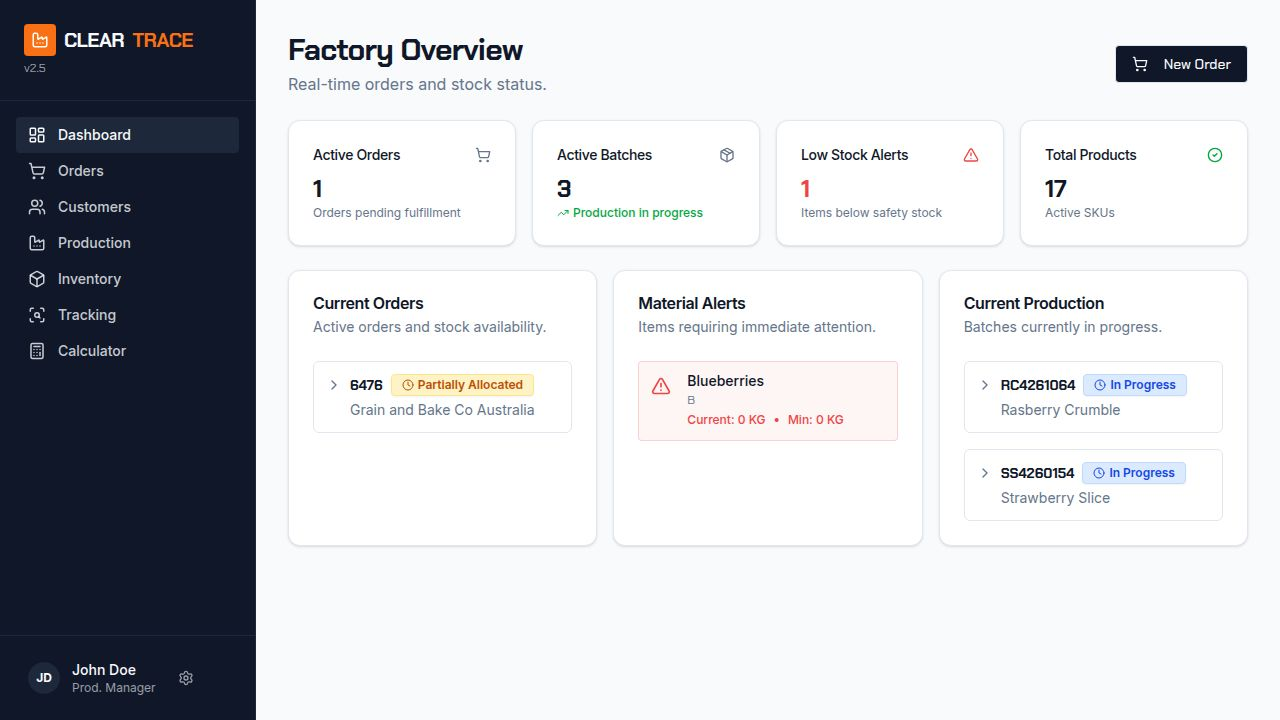
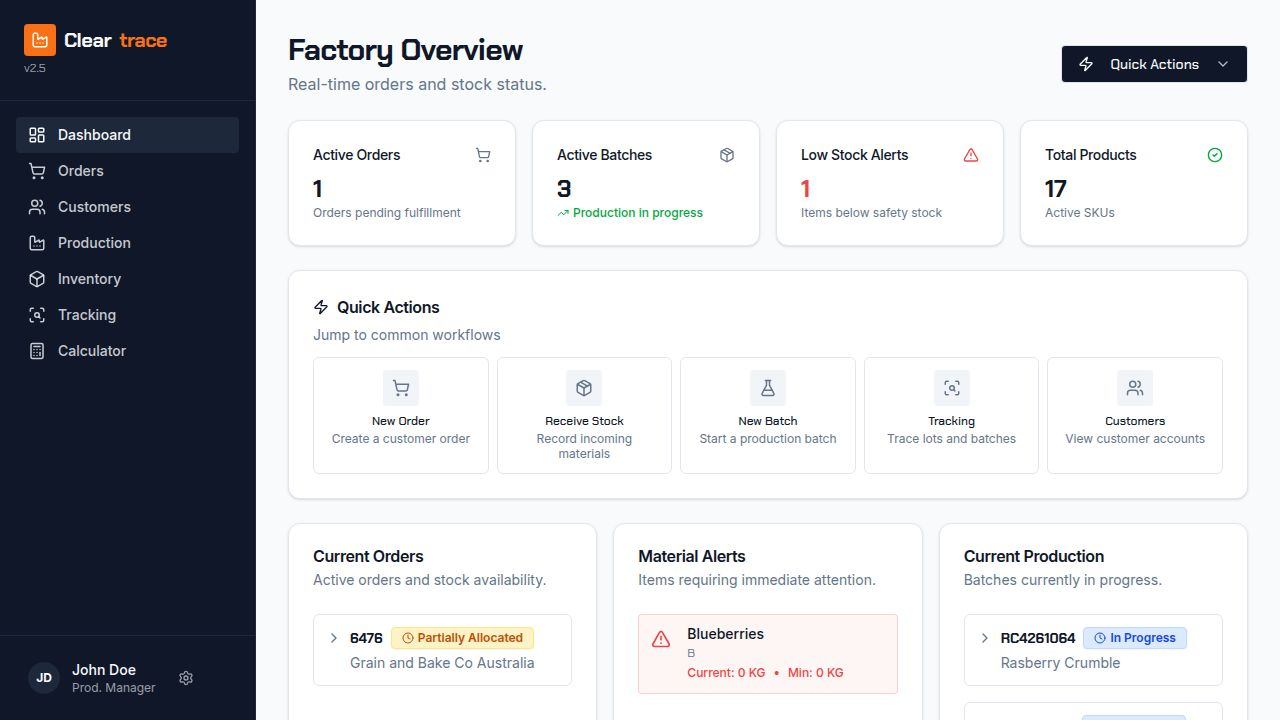
feat(#17): Dashboard Quick Actions dropdown and card
## Summary
Replaced the "New Order" button on the dashboard with a "Quick Actions"
dropdown menu, and added a Quick Actions card section to the dashboard.

## Changes — client/src/features/dashboard/pages/Dashboard.tsx

### Header Quick Actions dropdown
- Replaced `<Link href="/orders"><Button>New Order</Button></Link>` with a
  `DropdownMenu` trigger labelled "Quick Actions" (with Zap icon + chevron)
- Dropdown contains 5 items: New Order, Receive Stock, New Batch, Tracking,
  Customers — separated by a divider after "New Order"
- Navigation uses `useLocation` from wouter (`const [, navigate] = useLocation()`)
  rather than `<Link>` to work correctly inside Radix DropdownMenuItem
- Each item has a matching Lucide icon: ShoppingCart, Package, FlaskConical,
  ScanSearch, Users

### Quick Actions card (new section between stat cards and main grid)
- Full-width card with a Zap header icon, title "Quick Actions", and
  subtitle "Jump to common workflows"
- 5 icon+label buttons in a responsive grid (2 cols mobile → 3 cols sm → 5 cols lg)
- Each button has a rounded icon container with hover:primary/10 tint,
  the action label in font-mono, and a short description (hidden on mobile)
- Same QUICK_ACTIONS constant drives both the dropdown and the card
  (defined once at the top of the file as a const array)

### New imports
- DropdownMenu, DropdownMenuContent, DropdownMenuItem, DropdownMenuSeparator,
  DropdownMenuTrigger from existing UI library
[…]

diff --git a/client/src/features/dashboard/pages/Dashboard.tsx b/client/src/features/dashboard/pages/Dashboard.tsx
@@ -3,14 +3,24 @@ import { Badge } from '@/components/ui/badge';
 import { Button } from '@/components/ui/button';
 import { Progress } from '@/components/ui/progress';
 import { Collapsible, CollapsibleContent, CollapsibleTrigger } from '@/components/ui/collapsible';
-import { AlertTriangle, CheckCircle2, Package, ShoppingCart, TrendingUp, AlertCircle, Loader2, Clock, ChevronDown } from 'lucide-react';
+import { DropdownMenu, DropdownMenuContent, DropdownMenuItem, DropdownMenuSeparator, DropdownMenuTrigger } from '@/components/ui/dropdown-menu';
+import { AlertTriangle, CheckCircle2, Package, ShoppingCart, TrendingUp, AlertCircle, Loader2, Clock, ChevronDown, FlaskConical, ScanSearch, Users, Zap } from 'lucide-react';
 import { cn } from '@/lib/utils';
-import { Link } from 'wouter';
+import { useLocation } from 'wouter';
 import { format } from 'date-fns';
 import { useProducts, useMaterials, useDashboardStats, useOrdersWithAllocation, useBatches, type OrderWithAllocation } from '@/lib/api';
 import { useSettings } from '@/hooks/use-settings';
 
+const QUICK_ACTIONS = [
+  { label: 'New Order', icon: ShoppingCart, href: '/orders', description: 'Create a customer order' },
+  { label: 'Receive Stock', icon: Package, href: '/inventory', description: 'Record incoming materials' },
+  { label: 'New Batch', icon: FlaskConical, href: '/production', description: 'Start a production batch' },
+  { label: 'Tracking', icon: ScanSearch, href: '/traceability', description: 'Trace lots and batches' },
+  { label: 'Customers', icon: Users, href: '/customers', description: 'View customer accounts' },
+] as const;
+
 export default function Dashboard() {
+  const [, navigate] = useLocation();
   const { data: ordersWithAllocation = [], isLoading: ordersLoading, isError: ordersError } = useOrdersWithAllocation();
   const { data: products = [], isLoading: productsLoading, isError: productsError } = useProducts();
   const { settings } = useSettings();
@@ -51,11 +61,31 @@ export default function Dashboard() {
           <h1 className="text-2xl sm:text-3xl font-bold tracking-tight font-mono" data-testid="text-dashboard-title">Factory Overview</h1>
           <p className="text-muted-foreground mt-1 text-sm sm:text-base">Real-time orders and stock status.</p>
         </div>
-        <Link href="/orders">
-          <Button className="font-mono w-full sm:w-auto" data-testid="button-new-order">
-            <ShoppingCart size={16} className="mr-2" /> New Order
-          </Button>
-        </Link>
+        <DropdownMenu>
+          <DropdownMenuTrigger asChild>
+            <Button className="font-mono w-full sm:w-auto" data-testid="button-quick-actions">
+              <Zap size={16} className="mr-2" />
+              Quick Actions
+              <ChevronDown size={14} className="ml-2 opacity-70" />
+            </Button>
+          </DropdownMenuTrigger>
+          <DropdownMenuContent align="end" className="w-52">
+            {QUICK_ACTIONS.map((action, i) => (
+              <>
+                {i === 1 && <DropdownMenuSeparator key="sep" />}
+                <DropdownMenuItem
+                  key={action.href}
+                  onSelect={() => navigate(action.href)}
+                  className="cursor-pointer"
+                  data-testid={`quick-action-${action.label.toLowerCase().replace(/\s+/g, '-')}`}
+                >
+                  <action.icon size={15} className="shrink-0" />
+                  <span>{action.label}</span>
+                </DropdownMenuItem>
+              </>
+            ))}
+          </DropdownMenuContent>
+        </DropdownMenu>
       </div>
 
       <div className="grid grid-cols-1 sm:grid-cols-2 xl:grid-cols-4 gap-4">
@@ -96,6 +126,36 @@ export default function Dashboard() {
           testId="card-total-products"
         />
       </div>
+
+      <Card data-testid="card-quick-actions">
+        <CardHeader className="pb-3">
+          <CardTitle className="flex items-center gap-2 text-base">
+            <Zap className="h-4 w-4 text-primary" />
+            Quick Actions
+          </CardTitle>
+          <CardDescription>Jump to common workflows</CardDescription>
+        </CardHeader>
+        <CardContent>
+          <div className="grid grid-cols-2 sm:grid-cols-3 lg:grid-cols-5 gap-2">
+            {QUICK_ACTIONS.map((action) => (
+              <button
+                key={action.href}
+                onClick={() => navigate(action.href)}
+                className="flex flex-col items-center gap-2 p-3 rounded-lg border border-border hover:bg-accent hover:text-accent-foreground transition-colors text-center group cursor-pointer"
+                data-testid={`quick-action-card-${action.label.toLowerCase().replace(/\s+/g, '-')}`}
+              >
+                <div className="w-9 h-9 rounded-md bg-muted flex items-center justify-center group-hover:bg-primary/10 transition-colors">
+                  <action.icon size={18} className="text-muted-foreground group-hover:text-primary transition-colors" />
+                </div>
+                <div>
+                  <p className="text-xs font-medium font-mono leading-tight">{action.label}</p>
+                  <p className="text-xs text-muted-foreground leading-tight mt-0.5 hidden sm:block">{action.description}</p>
+                </div>
+              </button>
+            ))}
+          </div>
+        </CardContent>
+      </Card>
 
       <div className="grid grid-cols-1 lg:grid-cols-3 gap-4">
         <Card className="lg:col-span-1 overflow-hidden flex flex-col max-h-[500px]">
